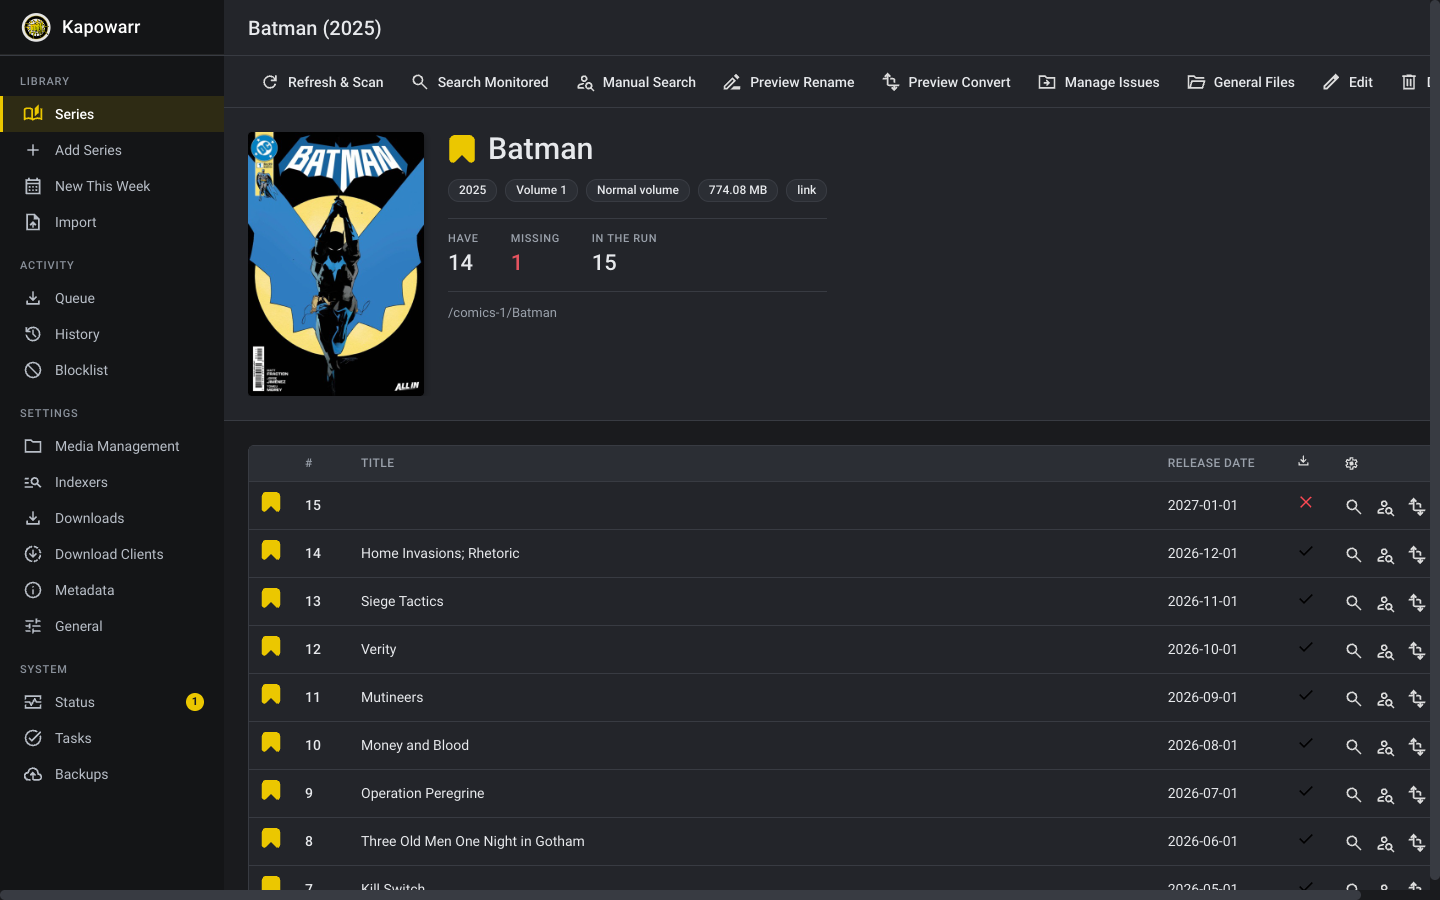
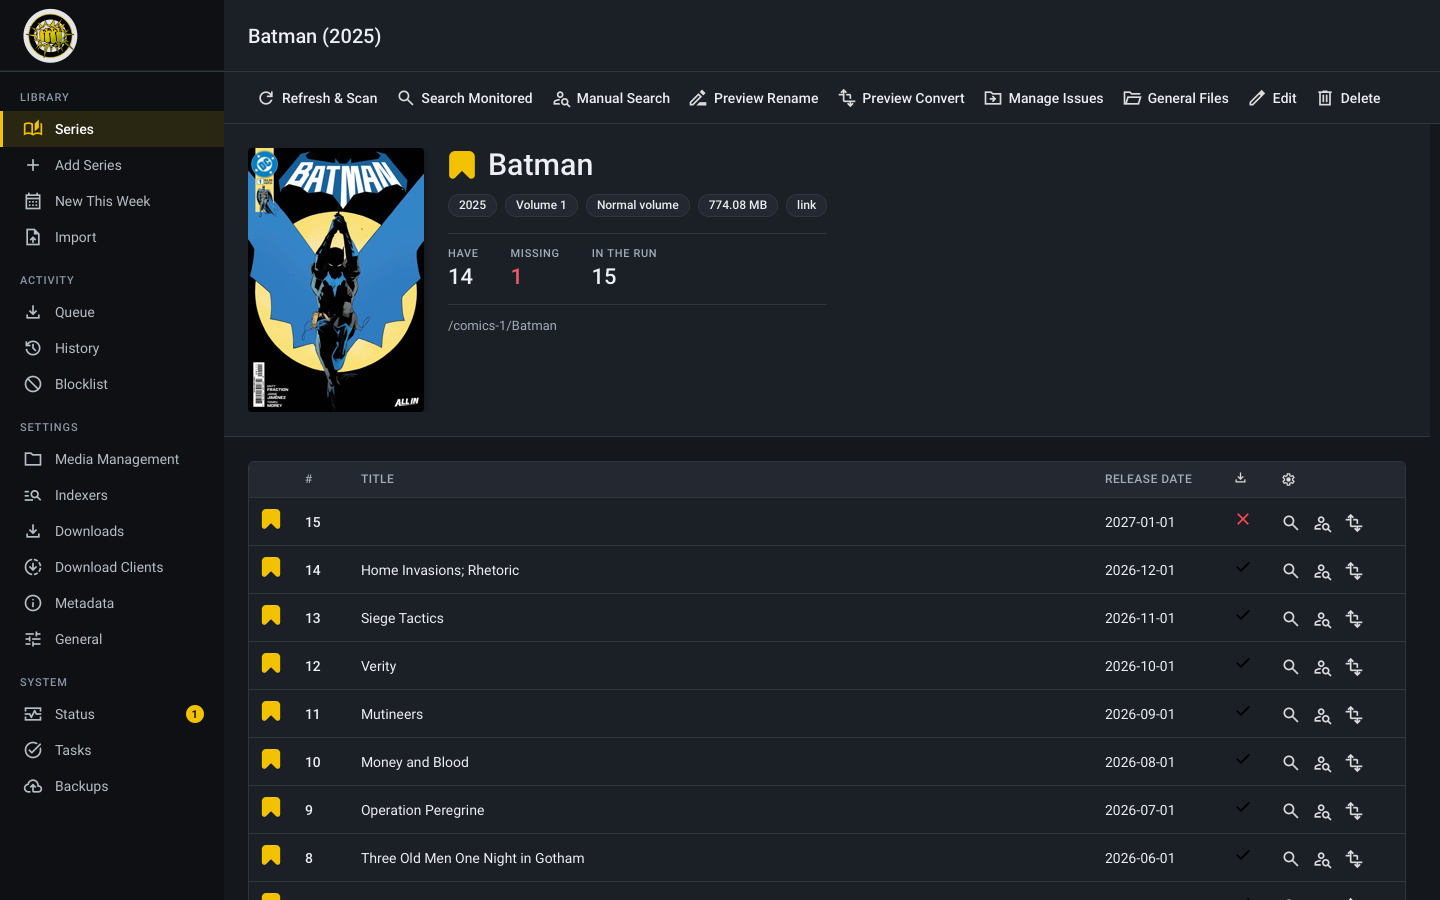
Docs: calendar views, palette, new screenshots; phone calendar shows a dot per release

diff --git a/frontend/static/css/extras.css b/frontend/static/css/extras.css
@@ -191,8 +191,11 @@ small { font-weight: 400; color: var(--dimmed-text-color); font-size: 13px; }
 
 @media (max-width: 720px) {
 	#cal-label { min-width: 0; width: 100%; order: 3; }
-	.cal-day { min-height: 72px; padding: 4px; }
-	.cal-item { font-size: 11px; padding: 1px 4px; }
+	.cal-day { min-height: 64px; padding: 4px; flex-direction: row; flex-wrap: wrap; align-content: flex-start; gap: 2px; }
+	.cal-num { flex: 0 0 100%; text-align: left; }
+	/* a dot per release on a phone; tap the day to read them */
+	.cal-item { width: 8px; height: 8px; padding: 0; border: 0; border-radius: 50%; background-color: currentColor; font-size: 0; overflow: hidden; }
+	.cal-more { padding: 0; font-size: 11px; }
 	.cal-dow { padding: 6px 2px; font-size: 11px; text-align: center; }
 	.up-item { grid-template-columns: minmax(0, 1fr) auto; padding: 8px 12px; }
 	.up-date { grid-column: 1; }

diff --git a/docs/Interface.md b/docs/Interface.md
@@ -5,7 +5,7 @@ tidied so a beginner can find things and a daily user can work quickly. It
 changes only how things look and are worded. Every feature, page and
 address of Kapowarr is still there.
 
-<p align="center"><img src="images/ui-library.png" alt="The Series page: a shelf of comic covers, each with its progress and how many issues are missing" width="100%"></p>
+<p align="center"><img src="images/ui-library.jpg" alt="The Series page: a shelf of comic covers, each with its progress and how many issues are missing" width="100%"></p>
 
 ## Finding your way
 
@@ -39,24 +39,56 @@ Type a name and press Enter. Results come from ComicVine. Each card says **Add t
 
 On/off options are switches. Every setting keeps its explanation underneath it.
 
-## New This Week
+## New This Week: the calendar
 
-<p align="center"><img src="images/ui-extras.png" alt="New This Week: the calendar with new series to add" width="100%"></p>
+<p align="center"><img src="images/ui-calendar-month.png" alt="The month calendar: each day lists the issues that come out, with a word for how each one stands" width="100%"></p>
 
-The page that used to be called Extras. See [Extras](Extras.md).
+The calendar answers "when does the next issue come out?". Pick **Day, Week, Month or Year**, move with the arrows (or the left and right arrow keys), and press **Today** to come back. Your choice of view is remembered.
+
+- **Month** shows every day. An issue is a small label with the series and number, coloured by how it stands. More than three on one day: press "+ more", or the day number, to open that day.
+- **Week** lists the seven days, with the empty ones kept short.
+- **Day** is one list.
+- **Year** shows twelve tiles with how many issues come out each month. Press a month to open it.
+- **Coming up** lists the next issue of every series that has a date, for the next month, 3 months, 6 months or year, with "in 4 weeks".
+
+Every label says its state in words as well as colour: **Downloaded**, **Wanted** (already out, still missing), **Not out yet** and **Not monitored**.
+
+<p align="center"><img src="images/ui-calendar-year.png" alt="The year calendar: twelve months with how many issues each one has" width="49%"> <img src="images/ui-mobile-calendar.jpg" alt="The month calendar on a phone, with a dot for each release" width="24%"></p>
+
+The dates come from your library, so the calendar works without internet. A date shows up once ComicVine knows it, so a series with nothing announced has nothing on the calendar. **New series starting** asks ComicVine and only runs when you press its button. See [Extras](Extras.md) for the rest of the page.
 
 ## Light and dark
 
 Dark is the default, as in Sonarr. Change it under Settings, General, Theme.
 
-<p align="center"><img src="images/ui-library-light.png" alt="The same shelf in the light theme" width="100%"></p>
+<p align="center"><img src="images/ui-library-light.jpg" alt="The same shelf in the light theme" width="100%"></p>
 
 ## On a phone
 
-<p align="center"><img src="images/ui-mobile.png" alt="The shelf on a phone, with the tab bar at the bottom" width="320"></p>
+<p align="center"><img src="images/ui-mobile.jpg" alt="The shelf on a phone, with the tab bar at the bottom" width="320"></p>
+
+## Colours
+
+One family of cool slate greys carries both themes, so nothing looks like a stray grey.
+
+| Role | Light | Dark |
+|---|---|---|
+| Page | `#f4f6f9` | `#14171c` |
+| Cards and bars | `#ffffff` | `#1b1f26` |
+| Text | `#19202a` | `#eceff3` |
+| Quiet text | `#55606f` | `#a3acb9` |
+| Lines | `#dde2e9` | `#2f3640` |
+| Gold (main action, current page) | `#f2c200` | `#f2c200` |
+| Green (have it) | `#1b8a4b` | `#3dbb6d` |
+| Amber (wanted) | `#b86e00` | `#f0a62b` |
+| Red (missing, error) | `#c8323f` | `#ef5b6a` |
+| Blue (not out yet, links) | `#1f64d6` | `#5aa2ff` |
+
+The sidebar is the same deep ink in both themes. Text on gold is always the dark ink. Every pair above is at least 4.5 to 1 against its background.
 
 ## Design rules
 
+- **The logo stands alone** at the top of the sidebar, with no wordmark next to it.
 - **One typeface**, Roboto, in regular, medium and bold. Nothing decorative.
 - **One icon set**, Material Symbols Sharp, drawn at one weight and size, instead of a mix of styles. The icons are in `frontend/static/img` and `frontend/static/img/ui`.
 - **Gold (`#ebc700`) is used sparingly**: the current page, the main button on a page and the monitored bookmark. Status uses green, amber and red, and always with a word.

diff --git a/README.md b/README.md
@@ -7,7 +7,7 @@
 
 Build a comic library and keep it up to date, from every place comics can be found.
 
-<p align="center"><img src="docs/images/ui-library.png" alt="The Kapowarr shelf: comic covers with a progress bar under each, and how many issues are missing" width="100%"></p>
+<p align="center"><img src="docs/images/ui-library.jpg" alt="The Kapowarr shelf: comic covers with a progress bar under each, and how many issues are missing" width="100%"></p>
 
 <p align="center"><sub>Your shelf. Every comic shows how complete it is.</sub></p>
 
@@ -49,7 +49,7 @@ Everything Kapowarr does is still here, including what the original added in Oct
 | Hardlinks | A finished torrent is hard linked into your library: instant, no second copy on the disk, and it keeps seeding. When the two folders are on different drives it is copied as before |
 | Tells you things | A message (ntfy, Discord or any webhook) when a comic is imported or a download fails, and Komga is asked to scan so the comic shows up at once. Both are switched on with environment variables |
 | Numbers to watch | `/api/system/metrics` gives queue size, library size and how Prowlarr is doing, for Homepage, Beszel or Prometheus |
-| A release calendar | The Extras page shows what comes out this week from your library, and which new series start. Series that match your watch list (a publisher, or a word in the title) are added and searched for by themselves |
+| A release calendar | New This Week has a Day, Week, Month and Year calendar of the release dates your library knows, a "Coming up" list of the next issue of every series, and the new series that start. Series that match your watch list Series that match your watch list (a publisher, or a word in the title) are added and searched for by themselves |
 | Requests | Ask for a series on the Extras page: it is added, searched for, and its state is shown (searching, downloading, complete) |
 | Quality upgrades | Lists issues whose file is in a less wanted format than your format preference, and looks for better ones |
 | Reading progress | With Komga set up, shows what you have read, and series you are caught up on are searched first |
@@ -74,13 +74,15 @@ For torrents you also need a download client: Settings, Download Clients, add **
 
 The same Kapowarr, laid out like Sonarr and Radarr and made easier to read: one typeface, one icon set, plain words, and the same spacing everywhere. Everything is still where it was, and dark is the default. The full tour, with the reasons, is in [The interface](docs/Interface.md).
 
-<p align="center"><img src="docs/images/ui-series.png" alt="A series page: Have, Missing and In the run, then the issue list" width="49%"> <img src="docs/images/ui-mobile.png" alt="The shelf on a phone with a tab bar" width="24%"></p>
+<p align="center"><img src="docs/images/ui-calendar-month.png" alt="The month calendar" width="49%"> <img src="docs/images/ui-series.png" alt="A series page: Have, Missing and In the run, then the issue list" width="49%"></p>
+
+<p align="center"><img src="docs/images/ui-library-light.jpg" alt="The same shelf in the light theme" width="49%"> <img src="docs/images/ui-mobile.jpg" alt="The shelf on a phone with a tab bar" width="24%"></p>
 
 ## Extras: calendar, requests, upgrades, reading
 
 Open **New This Week** in the menu (the page is called Extras in the code). It has four tabs. All of it is explained in [Extras](docs/Extras.md).
 
-* **Calendar:** what comes out this week, week by week, and the new series starting. Add publishers or words to the watch list and matching new series are followed for you.
+* **Calendar:** a Day, Week, Month and Year calendar of what comes out, a "Coming up" list of the next issue of every series, and the new series starting. Add publishers or words to the watch list and matching new series are followed for you.
 * **Requests:** search for a series and press Request. Anyone who can open Kapowarr can ask; the list shows how far each request got.
 * **Upgrades:** issues whose file is in a less wanted format than your preference, with a button to look for a better one.
 * **Reading:** your progress from Komga.

diff --git a/FORK-NOTES.md b/FORK-NOTES.md
@@ -21,7 +21,9 @@ What is changed:
 
 14. `backend/implementations/extras/` (new): `releases.py` (calendar, new series, watch list, follow), `requests_.py`, `upgrades.py`, `komga_sync.py`, `metron.py`, `store.py` (three small tables created with `IF NOT EXISTS`, so they take no migration number), `scheduler.py` (one daemon thread: Komga check every 30 minutes, new series every day).
 15. `frontend/extras.py` (new) and `backend/internals/server.py`: the endpoints `/api/extras/...`. `frontend/ui.py`, `frontend/templates/extras.html`, `frontend/static/js/extras.js`, `frontend/static/css/extras.css` and one link in `base.html`: the Extras page. `Kapowarr.py` starts the scheduler. `backend/features/post_processing.py` removes a replaced file when `KAPOWARR_UPGRADE_REMOVE_OLD=1`.
-16. `frontend/static/css/kapowarr.css` (new), `frontend/static/js/shell.js` (new) and `frontend/templates/base.html`: a new interface in the style of Sonarr and Radarr. Sidebar with sections, page titles with a plain hint, one icon set (`frontend/static/img` and `img/ui`, Material Symbols, Apache 2.0), Roboto only, a first-run setup card, "missing / Complete" on each cover, a Have / Missing / In the run summary on the series page, activity tabs and a tab bar on phones. `frontend/static/js/volumes.js` colours the progress bars green, amber or red; `frontend/ui.py` and `general.js` make dark the default; `frontend/static/css/extras.css` and `add_volume.html` (wording) follow. No endpoint or feature was changed. See docs/Interface.md.
+16. `frontend/static/css/kapowarr.css` (new), `frontend/static/js/shell.js` (new) and `frontend/templates/base.html`: a new interface in the style of Sonarr and Radarr. Sidebar with sections, page titles with a plain hint, one icon set (`frontend/static/img` and `img/ui`, Material Symbols, Apache 2.0), Roboto only, a first-run setup card, "missing / Complete" on each cover, a Have / Missing / In the run summary on the series page, activity tabs and a tab bar on phones. `frontend/static/js/volumes.js` colours the progress bars green, amber or red; `frontend/ui.py` and `general.js` make dark the default; `frontend/static/css/extras.css` and `add_volume.html` (wording) follow. The palette is one set of colour variables for light and dark (`kapowarr.css`). Icons are inline SVG in the menu (`frontend/templates/icons`) so they render the same in Safari, Chrome and Firefox. See docs/Interface.md.
+
+17. `backend/implementations/extras/releases.py` (`view_bounds`, `shift_anchor`, `grid_bounds`, `release_state`, `month_summary`, `upcoming`, `calendar`), `frontend/extras.py` (`/api/extras/calendar`, `/calendar/upcoming`, `/calendar/new`), `frontend/static/js/calendar.js` and `extras.html`: the calendar has Day, Week, Month and Year views and a Coming up list; checks in `tests/Tbackend/implementations/extras.py` cover leap years, month ends, year boundaries, bad dates and empty libraries.
 
 Checks that run offline on every change, next to the original's own:
 `tests/Tbackend/implementations/extras.py`, `improvements.py`, `prowlarr_indexer.py`, `internet_archive_indexer.py`, `torrent_links.py`, `tests/Tbackend/implementations/download_clients/torrent_name.py` and `tests/Tbackend/internals/db_migration_fork.py`.

diff --git a/docs/Extras.md b/docs/Extras.md
@@ -4,8 +4,11 @@ Open **New This Week** in the menu (Library section). The page is called Extras 
 
 ## Calendar
 
-* **In your library:** the issues of your series that go on sale in the chosen week, and whether you have them. This works without internet.
-* **New series starting:** the number ones that go on sale that week, from ComicVine. If ComicVine is blocked or out of requests and Metron is set up (below), Metron answers instead. Press **Add and search** to add one.
+Choose **Day, Week, Month or Year**. The arrows (or the left and right arrow keys) move to the previous or next period, and **Today** comes back to now. Kapowarr remembers the view you chose. The full picture, with screenshots, is in [The interface](Interface.md).
+
+* **In your library:** the issues of your series that come out in the period, and how each one stands: *Downloaded*, *Wanted* (already out and missing), *Not out yet* or *Not monitored*. This works without internet. An issue with no release date is not shown, because it has no day to sit on.
+* **Coming up:** the next issue of each series that has a date, for the next month, 3 months, 6 months or year, with how far away it is. This is the quickest way to see what is coming this month, next month or in three months.
+* **New series starting:** the number ones that come out in the period, from ComicVine. It asks ComicVine only when you press **Look up new series for this period**, so browsing the calendar never uses up your requests. It is not offered for the year view. If ComicVine is blocked or out of requests and Metron is set up (below), Metron answers instead. Press **Add and search** to add one.
 * **Follow automatically:** the safest choice is a **series (exact name)**, such as `Absolute Batman`: only that title is followed (capitals and a year in brackets do not matter, and `Batman` or `Absolute Batman Special` are not matched). You can also add a **publisher** (it must match exactly, ignoring capitals, for example `Image`: everything that publisher starts) or a **word in the title** (for example `Batman`). Once a day, new number ones that match are added to your first root folder, monitored, and searched for. A series is only ever followed once, and a message is sent if you have set up notifications. Without a watch list nothing is added by itself.
 
 ## Requests
